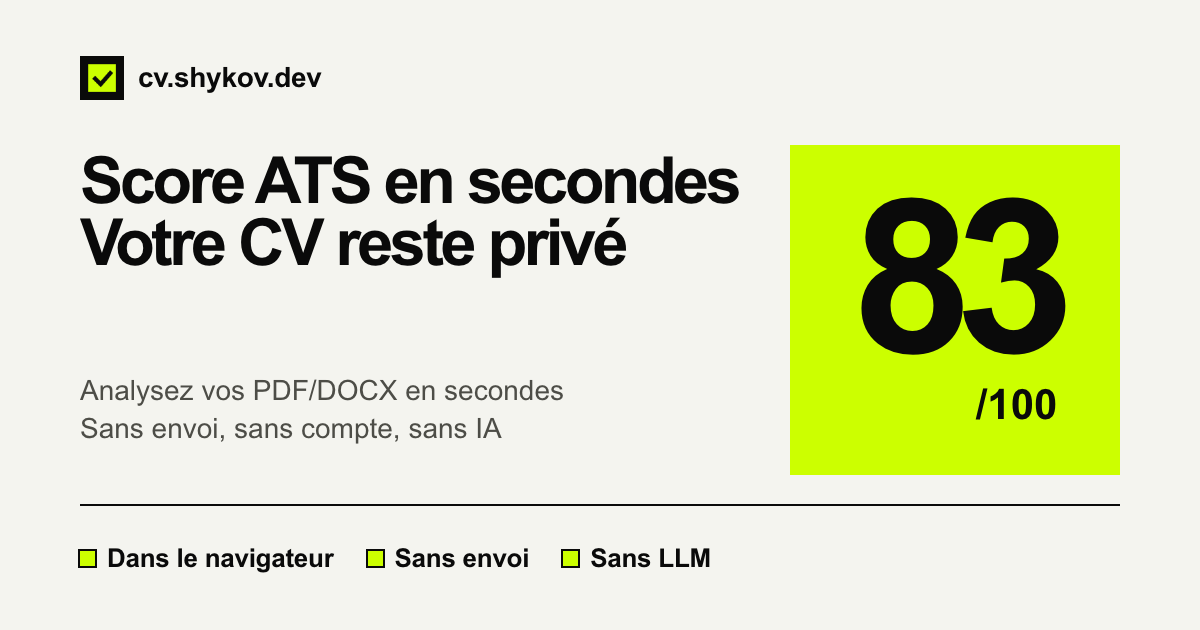
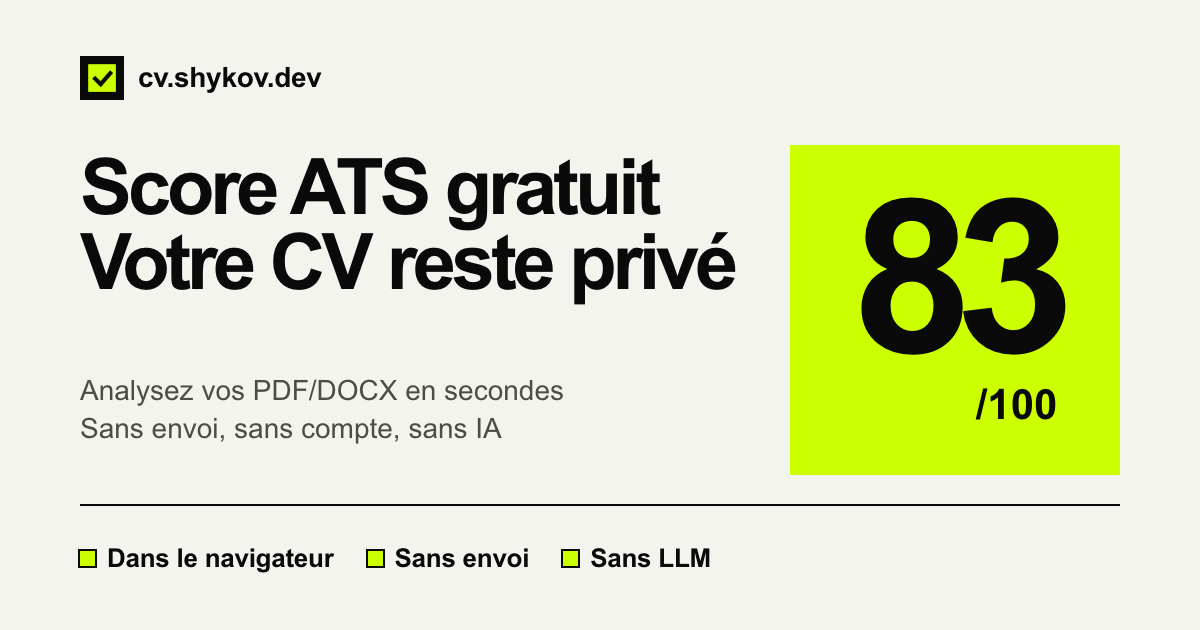
feat(design): OG cards say "free" — headline and image alt in seven languages
First headline line is now the free ATS score (Free ATS score, Puntuación ATS gratis, Pontuação ATS
grátis / gratuita, Score ATS gratuit, Kostenloser ATS-Score, Безкоштовний ATS-скор); the card image's
alt text follows. All seven cards regenerated.

Changed region(s): [[0.0617, 0.2413, 0.6167, 0.4825]]

diff --git a/src/i18n/messages/uk.ts b/src/i18n/messages/uk.ts
@@ -24,7 +24,7 @@ export const uk: Messages = {
     ogTitle: 'Безкоштовна перевірка резюме на ATS',
     ogDescription: 'Безкоштовний ATS-скор резюме для PDF і DOCX. Лише у браузері, без завантаження файлів, без LLM і без реєстрації.',
     twitterDescription: 'Миттєвий ATS-скор резюме для PDF і DOCX. Працює локально у браузері, без завантаження файлів і без LLM.',
-    ogImageAlt: 'Швидкий ATS-скор резюме. Приватно за замовчуванням. Працює у браузері, без завантаження файлів і без LLM.',
+    ogImageAlt: 'Безкоштовний ATS-скор резюме. Приватно за замовчуванням. Працює у браузері, без завантаження файлів і без LLM.',
     appDescription: 'Безкоштовна приватна перевірка резюме на ATS, добір ключових слів із вакансії та конструктор ATS-чистого резюме, що працює у браузері.',
     featureList: [
       'Миттєвий ATS-скор резюме',
@@ -44,7 +44,7 @@ export const uk: Messages = {
   },
 
   og: {
-    headline: ['Швидкий ATS-скор.', 'Приватно за замовчуванням.'],
+    headline: ['Безкоштовний ATS-скор.', 'Приватно за замовчуванням.'],
     sub: ['Оцінка PDF/DOCX за секунди.', 'Без завантаження, акаунтів і LLM.'],
     chips: ['Працює у браузері', 'Без завантаження', 'Без LLM'],
   },

diff --git a/src/i18n/messages/pt-pt.ts b/src/i18n/messages/pt-pt.ts
@@ -15,7 +15,7 @@ export const ptPT: Messages = {
     ogTitle: 'Verificador de CV ATS gratuito',
     ogDescription: 'Verificador de CV ATS gratuito: pontuação ATS imediata para PDF e DOCX. Só no navegador, privado, sem carregar ficheiros, sem LLM.',
     twitterDescription: 'Pontuação ATS imediata para CV em PDF e DOCX. Funciona localmente no navegador, sem carregar ficheiros e sem LLM.',
-    ogImageAlt: 'Pontuação ATS rápida do CV. Privado por defeito. Funciona no navegador, sem carregar ficheiros e sem chamadas a LLM.',
+    ogImageAlt: 'Pontuação ATS gratuita do CV. Privado por defeito. Funciona no navegador, sem carregar ficheiros e sem chamadas a LLM.',
     appDescription: 'Um verificador de CV ATS gratuito e centrado na privacidade, com comparação de palavras-chave de anúncios de emprego e um criador de CV compatível com ATS, tudo a funcionar no navegador.',
     featureList: [
       'Pontuação ATS imediata do CV',
@@ -35,7 +35,7 @@ export const ptPT: Messages = {
   },
 
   og: {
-    headline: ['Pontuação ATS rápida.', 'Privado por defeito.'],
+    headline: ['Pontuação ATS gratuita.', 'Privado por defeito.'],
     sub: ['Pontue ficheiros PDF/DOCX em segundos.', 'Sem carregamentos, contas nem LLM.'],
     chips: ['Corre no navegador', 'Sem carregar', 'Sem LLM'],
   },

diff --git a/src/i18n/messages/fr.ts b/src/i18n/messages/fr.ts
@@ -16,7 +16,7 @@ export const fr: Messages = {
     ogTitle: 'Vérificateur de CV ATS gratuit',
     ogDescription: 'Vérificateur de CV ATS gratuit : score ATS instantané pour PDF et DOCX. Dans le navigateur, sans envoi de fichier, sans IA.',
     twitterDescription: 'Score ATS instantané pour votre CV en PDF ou DOCX. Tout se passe dans votre navigateur : aucun envoi, aucune IA.',
-    ogImageAlt: 'Score ATS rapide. Privé par défaut. Fonctionne dans votre navigateur, sans envoi de fichier ni appel à une IA.',
+    ogImageAlt: 'Score ATS gratuit. Privé par défaut. Fonctionne dans votre navigateur, sans envoi de fichier ni appel à une IA.',
     appDescription: 'Un vérificateur de score ATS de CV gratuit et respectueux de la vie privée, un outil de correspondance de mots-clés avec une offre d’emploi et un créateur de CV compatible ATS, qui fonctionnent dans le navigateur.',
     featureList: [
       'Score ATS du CV instantané',
@@ -36,7 +36,7 @@ export const fr: Messages = {
   },
 
   og: {
-    headline: ['Score ATS en secondes.', 'Votre CV reste privé.'],
+    headline: ['Score ATS gratuit.', 'Votre CV reste privé.'],
     sub: ['Analysez vos PDF/DOCX en secondes.', 'Sans envoi, sans compte, sans IA.'],
     chips: ['Dans le navigateur', 'Sans envoi', 'Sans LLM'],
   },

diff --git a/src/i18n/messages/es.ts b/src/i18n/messages/es.ts
@@ -14,7 +14,7 @@ export const es: Messages = {
     ogTitle: 'Revisar CV ATS gratis: puntuación ATS de tu CV',
     ogDescription: 'Analizador de CV gratis: puntuación ATS al instante para PDF y DOCX. Solo en tu navegador, privado, sin subir archivos y sin LLM.',
     twitterDescription: 'Puntuación ATS inmediata para tu CV en PDF o DOCX. Se calcula en tu navegador, sin subir archivos y sin LLM.',
-    ogImageAlt: 'Puntuación ATS rápida. Privado por defecto. Funciona en tu navegador, sin subir archivos y sin llamadas a un LLM.',
+    ogImageAlt: 'Puntuación ATS gratis. Privado por defecto. Funciona en tu navegador, sin subir archivos y sin llamadas a un LLM.',
     appDescription: 'Un comprobador de CV ATS gratuito y privado, con comparación de palabras clave con la oferta de empleo y un creador de CV compatible con ATS que funciona en el navegador.',
     featureList: [
       'Puntuación ATS inmediata del CV',
@@ -34,7 +34,7 @@ export const es: Messages = {
   },
 
   og: {
-    headline: ['Puntuación ATS rápida.', 'Privado por defecto.'],
+    headline: ['Puntuación ATS gratis.', 'Privado por defecto.'],
     sub: ['Puntúa archivos PDF/DOCX en segundos.', 'Sin subidas, cuentas ni llamadas a LLM.'],
     chips: ['En tu navegador', 'Sin subidas', 'Sin LLM'],
   },

diff --git a/src/i18n/messages/de.ts b/src/i18n/messages/de.ts
@@ -16,7 +16,7 @@ export const de: Messages = {
     ogTitle: 'Lebenslauf ATS Check kostenlos',
     ogDescription: 'Lebenslauf ATS Check kostenlos: sofortiger ATS-Score für PDF und DOCX. Nur im Browser, datensparsam, ohne Upload, ohne LLM.',
     twitterDescription: 'Sofortiger ATS-Score für Ihren Lebenslauf als PDF oder DOCX. Läuft lokal in Ihrem Browser, ohne Upload und ohne LLM.',
-    ogImageAlt: 'Schneller ATS-Score für den Lebenslauf. Standardmäßig privat. Läuft im Browser, ohne Upload und ohne LLM-Aufrufe.',
+    ogImageAlt: 'Kostenloser ATS-Score für den Lebenslauf. Standardmäßig privat. Läuft im Browser, ohne Upload und ohne LLM-Aufrufe.',
     appDescription: 'Ein kostenloser, datensparsamer ATS-Check für den Lebenslauf (CV-Check), Keyword-Abgleich mit der Stellenanzeige und Editor für ATS-taugliche Lebensläufe, der im Browser läuft.',
     featureList: [
       'Sofortiger ATS-Score für den Lebenslauf',
@@ -36,7 +36,7 @@ export const de: Messages = {
   },
 
   og: {
-    headline: ['Lebenslauf ATS Check.', 'Privat im Browser.'],
+    headline: ['Kostenloser ATS-Score.', 'Privat im Browser.'],
     sub: ['PDF/DOCX in Sekunden prüfen.', 'Kein Upload, kein Konto, keine KI.'],
     chips: ['Läuft im Browser', 'Kein Upload', 'Kein LLM'],
   },

diff --git a/src/i18n/messages/en.ts b/src/i18n/messages/en.ts
@@ -23,7 +23,7 @@ export const en = {
     ogTitle: 'Free CV ATS Score Checker',
     ogDescription: 'Free CV score checker: instant ATS score for PDF and DOCX. Browser-only, privacy-first, no uploads, no LLMs.',
     twitterDescription: 'Instant ATS resume score for PDF and DOCX files. Runs locally in your browser with no uploads and no LLMs.',
-    ogImageAlt: 'Fast ATS resume score. Private by default. Runs in your browser with no uploads and no LLM calls.',
+    ogImageAlt: 'Free ATS resume score. Private by default. Runs in your browser with no uploads and no LLM calls.',
     appDescription: 'A free, privacy-first CV ATS score checker (ATS resume checker), job-description keyword matcher, and ATS-clean CV builder that runs in the browser.',
     featureList: [
       'Instant ATS resume score',
@@ -45,7 +45,7 @@ export const en = {
 
   // Text drawn on the social-card image (scripts/og-images.mjs).
   og: {
-    headline: ['Fast ATS score.', 'Private by default.'],
+    headline: ['Free ATS score.', 'Private by default.'],
     sub: ['Score PDF/DOCX files in seconds.', 'No uploads, accounts, or LLM calls.'],
     chips: ['Runs in browser', 'No uploads', 'No LLM'],
   },

diff --git a/src/i18n/messages/pt-br.ts b/src/i18n/messages/pt-br.ts
@@ -13,7 +13,7 @@ export const ptBR: Messages = {
     ogTitle: 'Verificador de Currículo ATS Grátis',
     ogDescription: 'Verificador de currículo ATS grátis: pontuação ATS na hora para PDF e DOCX. Roda no navegador, sem envio de arquivo e sem IA.',
     twitterDescription: 'Pontuação ATS do currículo na hora, para PDF e DOCX. Roda no seu navegador, sem envio de arquivo e sem IA.',
-    ogImageAlt: 'Pontuação ATS rápida do currículo. Privado por padrão. Roda no navegador, sem envio de arquivo e sem chamadas a LLM.',
+    ogImageAlt: 'Pontuação ATS grátis do currículo. Privado por padrão. Roda no navegador, sem envio de arquivo e sem chamadas a LLM.',
     appDescription: 'Um verificador de currículo ATS grátis e focado em privacidade, com comparação de palavras-chave da vaga e construtor de currículo compatível com ATS, tudo no navegador.',
     featureList: [
       'Pontuação ATS do currículo na hora',
